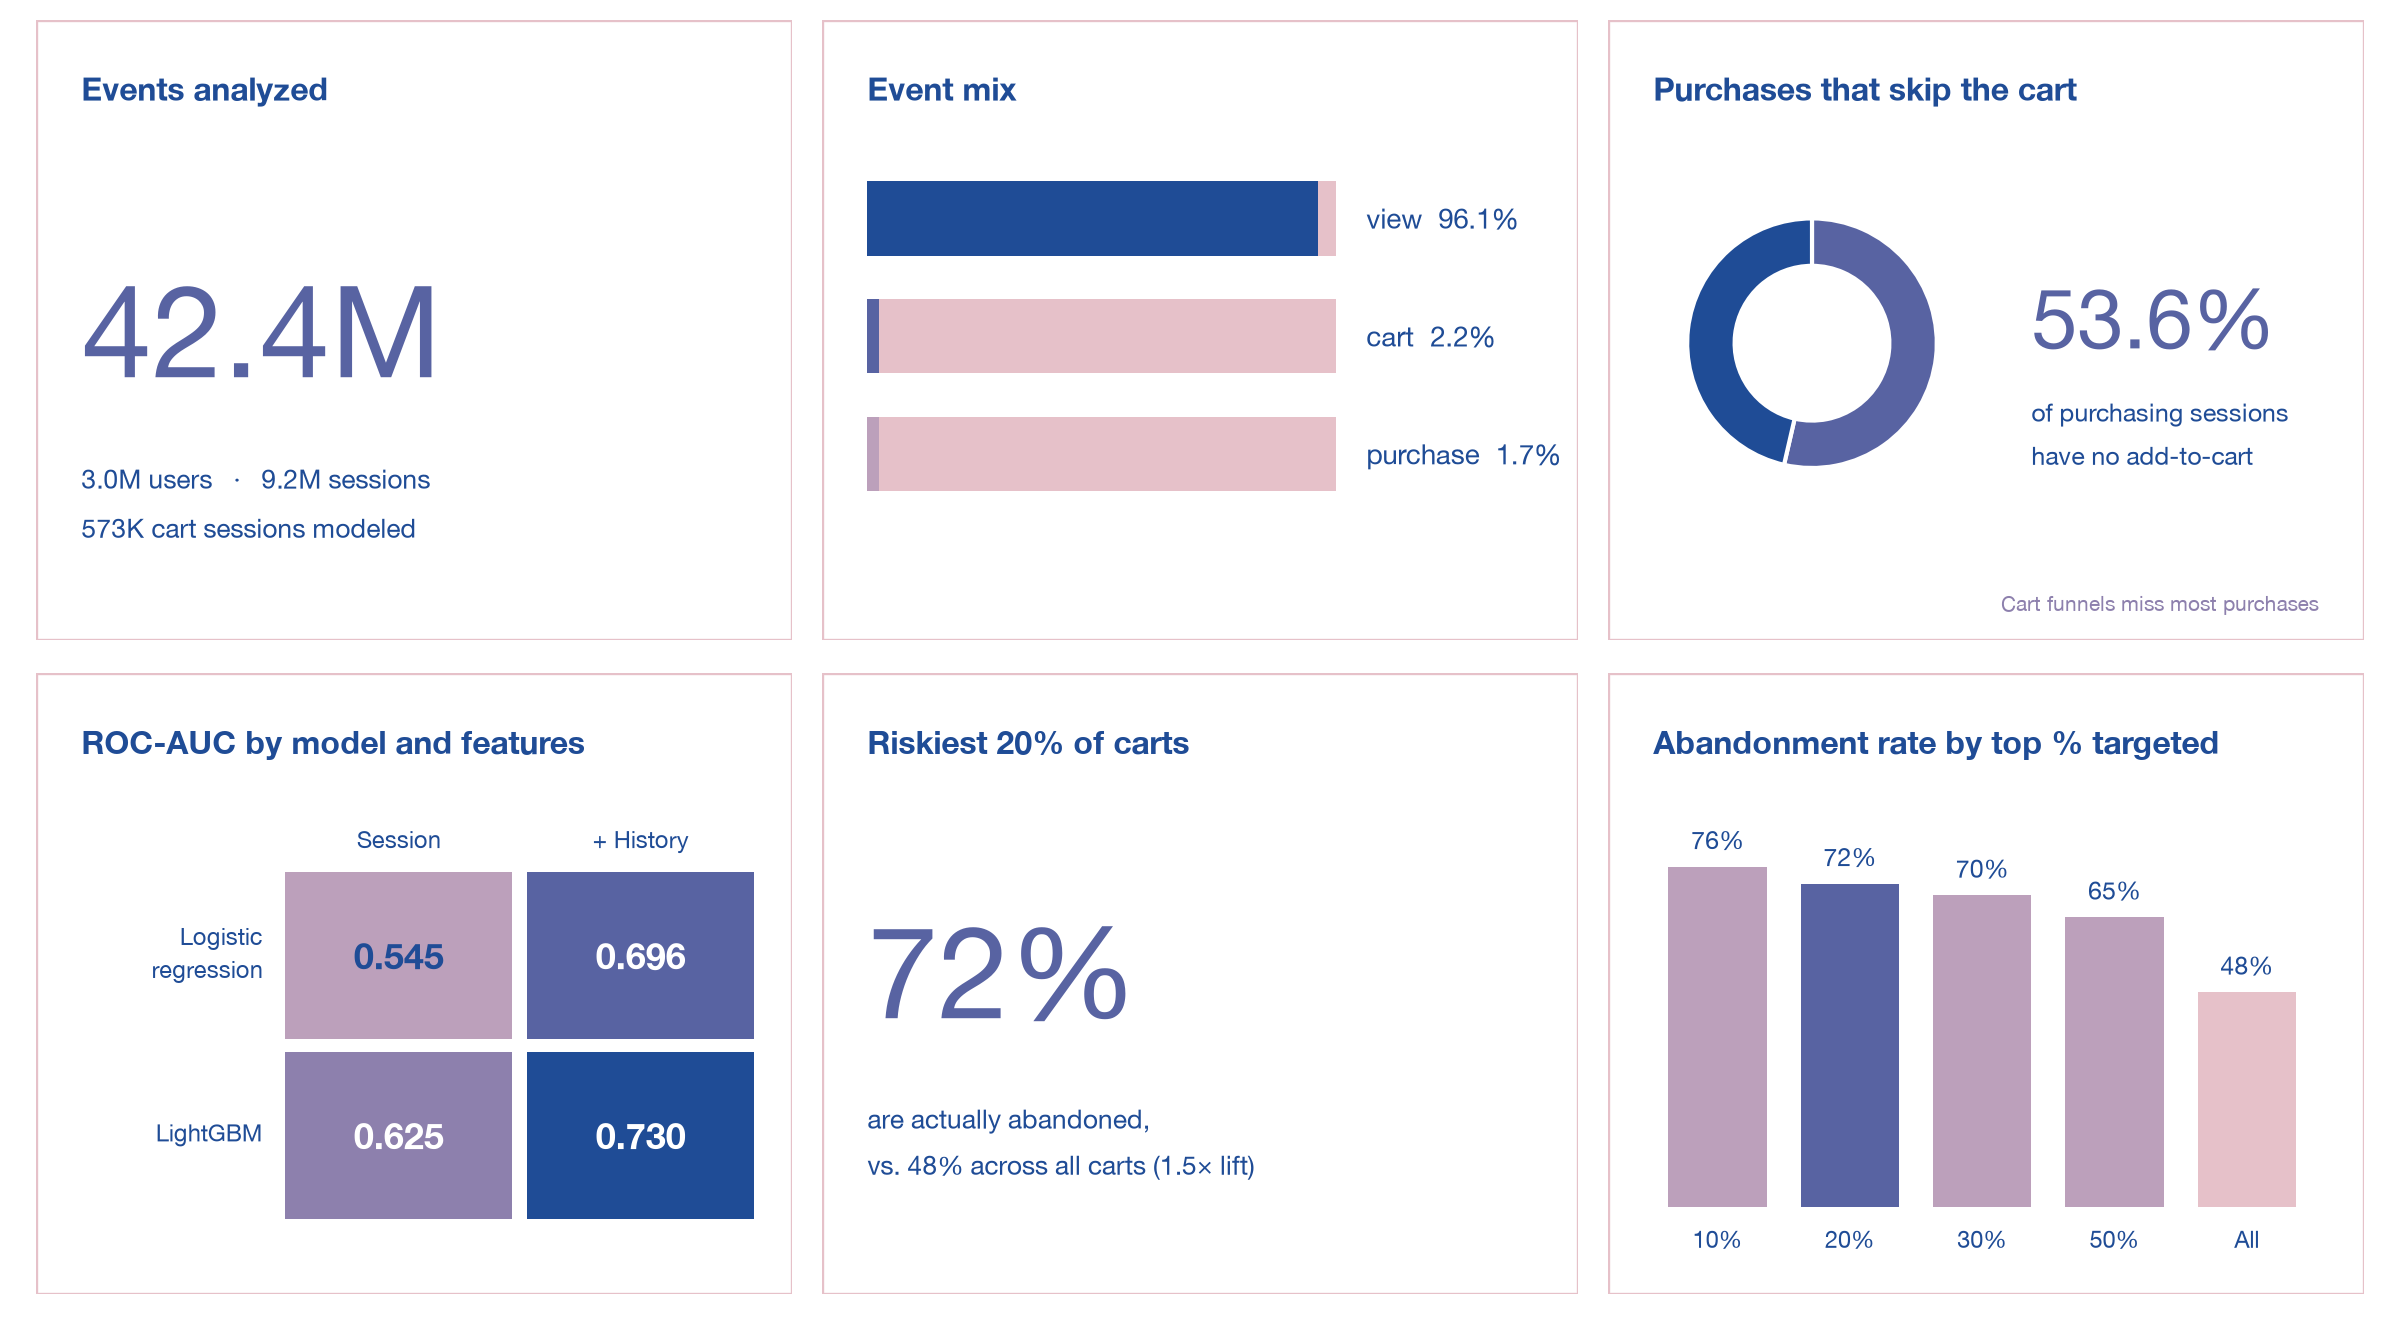
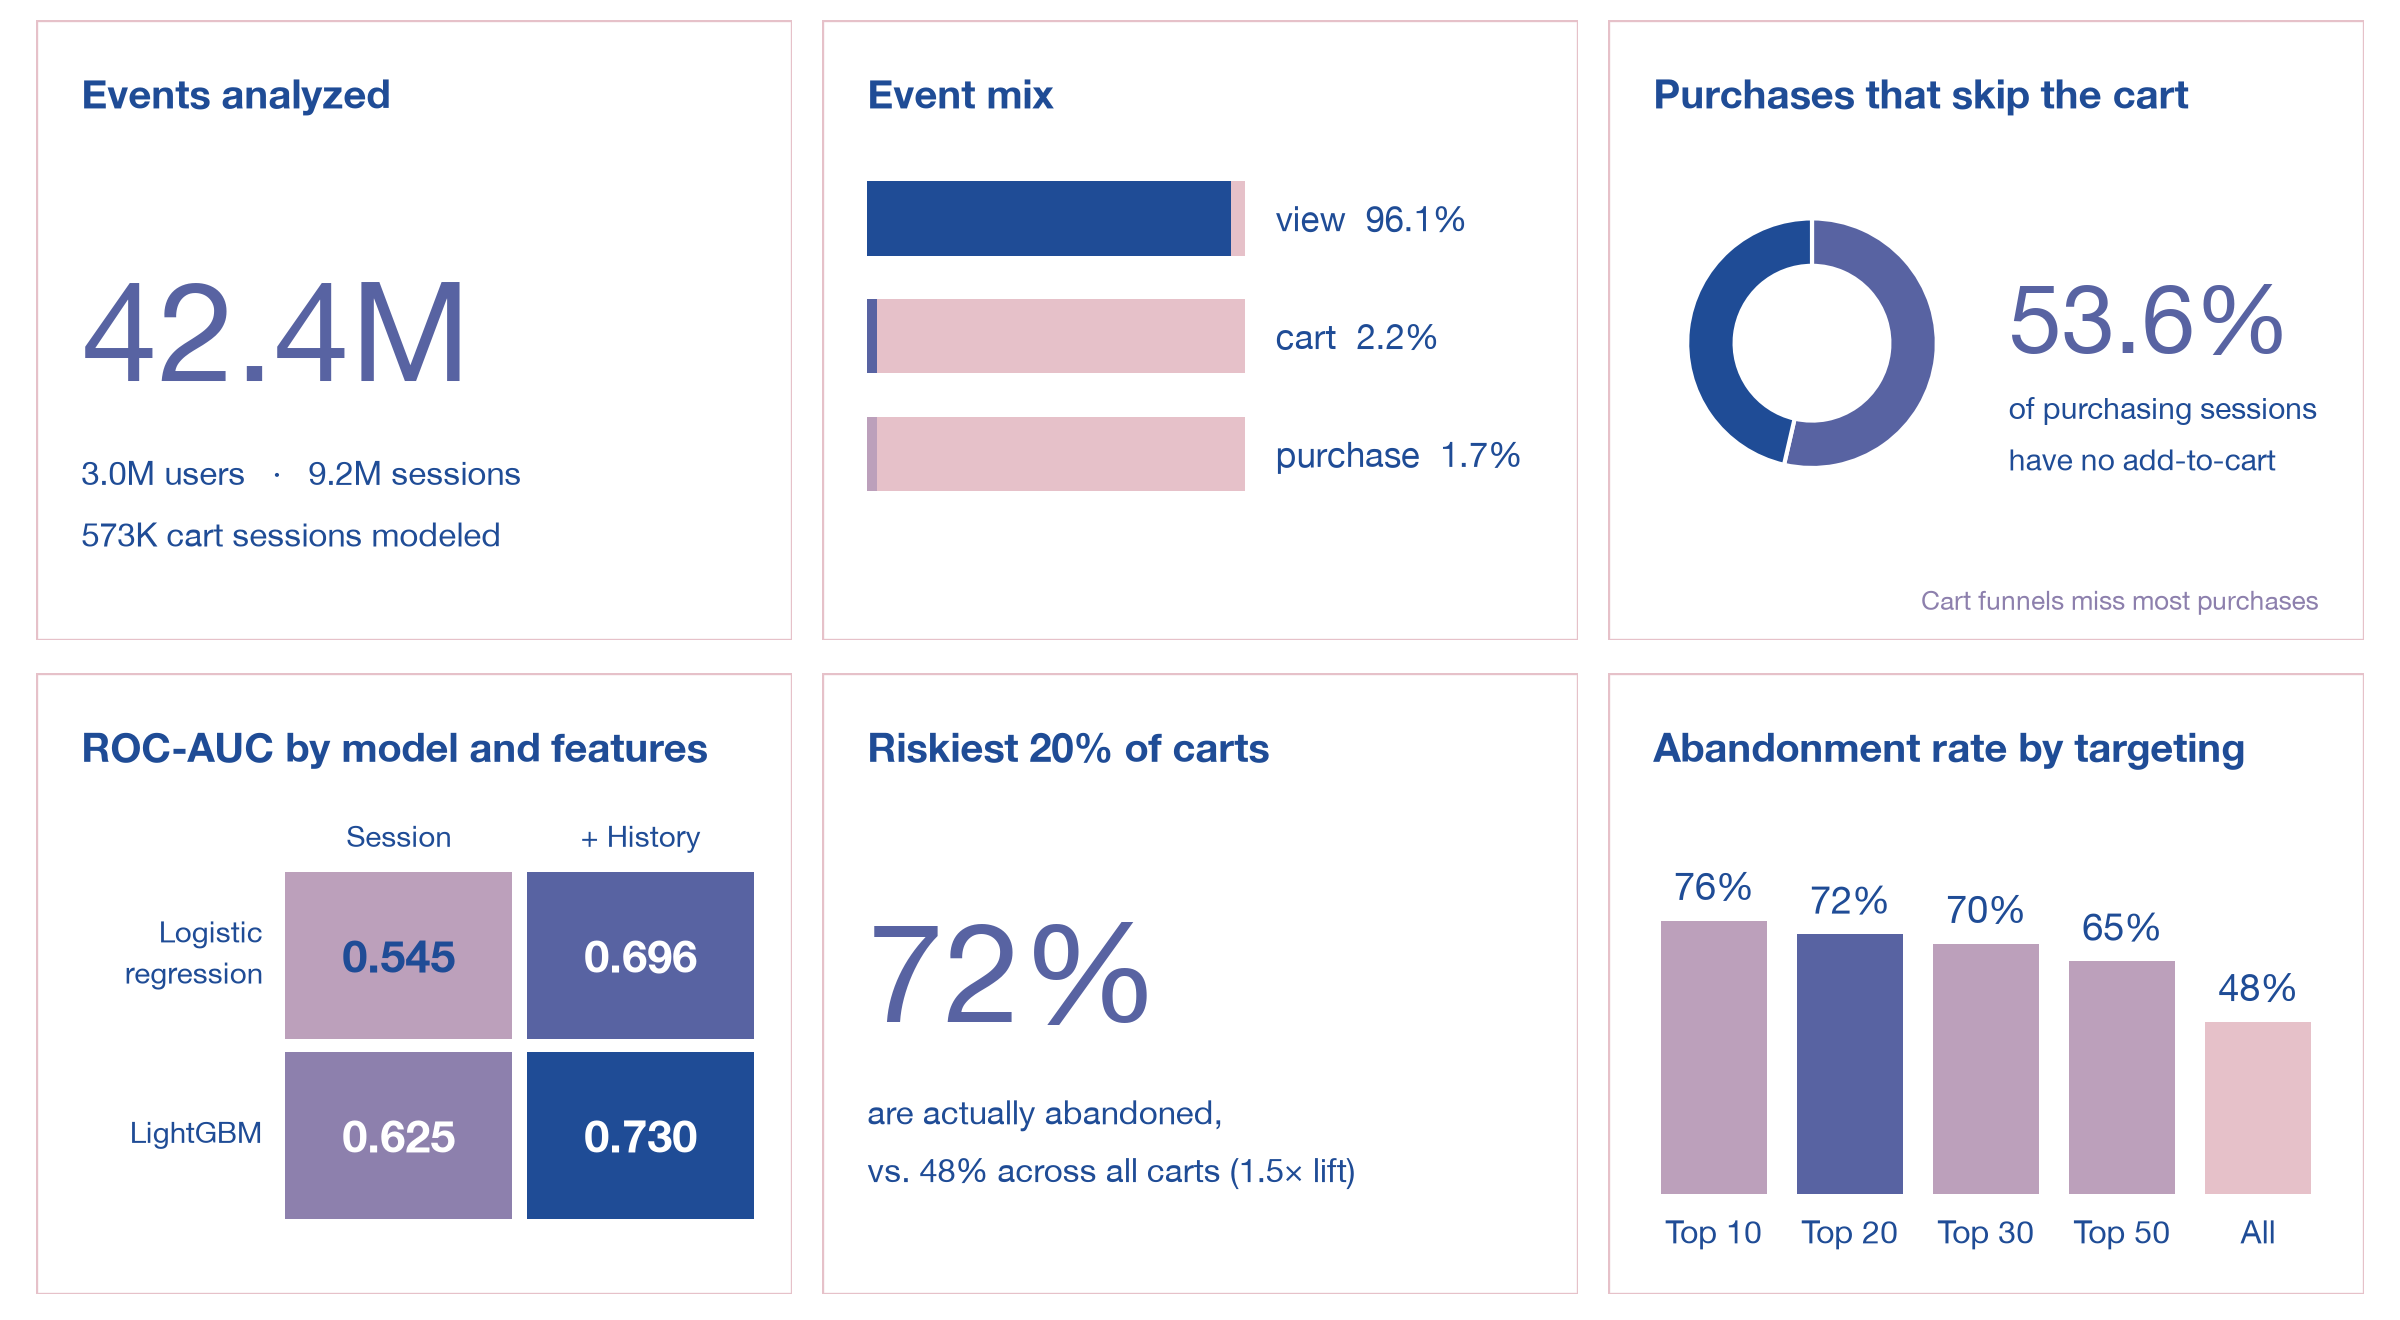
Show lift instead of abandonment rate in targeting tile

diff --git a/make_readme_figures.py b/make_readme_figures.py
@@ -39,9 +39,9 @@ def tile(fig, rect, title, source=None):
     frame.set_ylim(0, 1)
     frame.axis('off')
     frame.add_patch(Rectangle((0, 0), 1, 1, facecolor=BG, edgecolor=TILE_EDGE, lw=1.2))
-    frame.text(0.06, 0.92, title, fontsize=11.5, fontweight='bold', color=BLACK, va='top')
+    frame.text(0.06, 0.92, title, fontsize=14.4, fontweight='bold', color=BLACK, va='top')
     if source:
-        frame.text(0.94, 0.04, source, fontsize=7.5, color=GREY, ha='right', va='bottom')
+        frame.text(0.94, 0.04, source, fontsize=9.4, color=GREY, ha='right', va='bottom')
     return frame
 
 
@@ -54,9 +54,9 @@ ys = [0.515, 0.02]
 
 # 1. Data scale
 ax = tile(fig, (xs[0], ys[0], W, H), 'Events analyzed')
-ax.text(0.06, 0.50, '42.4M', fontsize=46, color=BLUE, va='center')
+ax.text(0.06, 0.50, '42.4M', fontsize=49.7, color=BLUE, va='center')
 ax.text(0.06, 0.22, '3.0M users   ·   9.2M sessions\n573K cart sessions modeled',
-        fontsize=9.5, color=BLACK, va='center', linespacing=1.6)
+        fontsize=11.9, color=BLACK, va='center', linespacing=1.6)
 
 # 2. Event mix
 ax = tile(fig, (xs[1], ys[0], W, H), 'Event mix')
@@ -64,10 +64,10 @@ mix = [('view', 96.1, BLACK), ('cart', 2.2, BLUE), ('purchase', 1.7, BLUE_LIGHT)
 y0 = 0.62
 for i, (name, pct, color) in enumerate(mix):
     yy = y0 - i * 0.19
-    ax.add_patch(Rectangle((0.06, yy), 0.62, 0.12, facecolor=GREY_LIGHT, edgecolor='none'))
-    ax.add_patch(Rectangle((0.06, yy), 0.62 * max(pct, 2.5) / 100, 0.12,
+    ax.add_patch(Rectangle((0.06, yy), 0.50, 0.12, facecolor=GREY_LIGHT, edgecolor='none'))
+    ax.add_patch(Rectangle((0.06, yy), 0.50 * max(pct, 2.5) / 100, 0.12,
                            facecolor=color, edgecolor='none'))
-    ax.text(0.72, yy + 0.06, f'{name}  {pct}%', fontsize=10, color=BLACK, va='center')
+    ax.text(0.60, yy + 0.06, f'{name}  {pct}%', fontsize=12.5, color=BLACK, va='center')
 
 # 3. Purchases that skip the cart (donut)
 ax = tile(fig, (xs[2], ys[0], W, H), 'Purchases that skip the cart')
@@ -77,10 +77,10 @@ donut.set_aspect('equal')
 donut.axis('off')
 donut.pie([skip, 100 - skip], colors=[BLUE, BLACK], startangle=90, counterclock=False,
           wedgeprops=dict(width=0.38, edgecolor=BG, linewidth=1.5))
-ax.text(0.56, 0.52, f'{skip}%', fontsize=30, color=BLUE, va='center')
-ax.text(0.56, 0.33, 'of purchasing sessions\nhave no add-to-cart', fontsize=9,
+ax.text(0.53, 0.52, f'{skip}%', fontsize=34.5, color=BLUE, va='center')
+ax.text(0.53, 0.33, 'of purchasing sessions\nhave no add-to-cart', fontsize=10.8,
         color=BLACK, va='center', linespacing=1.4)
-ax.text(0.94, 0.04, 'Cart funnels miss most purchases', fontsize=7.5, color=GREY,
+ax.text(0.94, 0.04, 'Cart funnels miss most purchases', fontsize=9.4, color=GREY,
         ha='right', va='bottom')
 
 # 4. ROC-AUC heatmap (model x feature set)
@@ -101,52 +101,52 @@ for i in range(2):
         x0 = gx + j * (cw + 0.02)
         y0c = gy + (1 - i) * (ch + 0.02)
         ax.add_patch(Rectangle((x0, y0c), cw, ch, facecolor=color, edgecolor='none'))
-        ax.text(x0 + cw / 2, y0c + ch / 2, f'{v:.3f}', fontsize=13, fontweight='bold',
+        ax.text(x0 + cw / 2, y0c + ch / 2, f'{v:.3f}', fontsize=16.2, fontweight='bold',
                 color='white' if rank >= 1 else BLACK, ha='center', va='center')
-    ax.text(gx - 0.03, gy + (1 - i) * (ch + 0.02) + ch / 2, rows[i], fontsize=8.5,
+    ax.text(gx - 0.03, gy + (1 - i) * (ch + 0.02) + ch / 2, rows[i], fontsize=10.6,
             color=BLACK, ha='right', va='center', linespacing=1.2)
 for j in range(2):
     ax.text(gx + j * (cw + 0.02) + cw / 2, gy + 2 * (ch + 0.02) + 0.01, cols[j],
-            fontsize=8.5, color=BLACK, ha='center', va='bottom')
+            fontsize=10.6, color=BLACK, ha='center', va='bottom')
 
 # 5. Precision of top-20% targeting
 ax = tile(fig, (xs[1], ys[1], W, H), 'Riskiest 20% of carts')
-ax.text(0.06, 0.52, '72%', fontsize=46, color=BLUE, va='center')
+ax.text(0.06, 0.52, '72%', fontsize=49.7, color=BLUE, va='center')
 ax.text(0.06, 0.24, 'are actually abandoned,\nvs. 48% across all carts (1.5× lift)',
-        fontsize=9.5, color=BLACK, va='center', linespacing=1.5)
+        fontsize=11.9, color=BLACK, va='center', linespacing=1.5)
 
 # 6. Abandonment rate by targeting depth
-ax = tile(fig, (xs[2], ys[1], W, H), 'Abandonment rate by top % targeted')
-bars = [('10%', 76.1), ('20%', 72.3), ('30%', 69.7), ('50%', 64.8), ('All', 48.0)]
-bx0, bw, gap, base, top = 0.08, 0.13, 0.045, 0.14, 0.72
+ax = tile(fig, (xs[2], ys[1], W, H), 'Abandonment rate by targeting')
+bars = [('Top 10', 76.1), ('Top 20', 72.3), ('Top 30', 69.7), ('Top 50', 64.8), ('All', 48.0)]
+bx0, bw, gap, base, top = 0.07, 0.14, 0.04, 0.16, 0.58
 for k, (lab, v) in enumerate(bars):
     x0 = bx0 + k * (bw + gap)
     hgt = (v / 100) * top
-    color = MIST if lab == 'All' else (BLUE if lab == '20%' else SKY)
+    color = MIST if lab == 'All' else (BLUE if lab == 'Top 20' else SKY)
     ax.add_patch(Rectangle((x0, base), bw, hgt, facecolor=color, edgecolor='none'))
-    ax.text(x0 + bw / 2, base + hgt + 0.02, f'{v:.0f}%', fontsize=9, color=BLACK,
+    ax.text(x0 + bw / 2, base + hgt + 0.02, f'{v:.0f}%', fontsize=13.8, color=BLACK,
             ha='center', va='bottom')
-    ax.text(x0 + bw / 2, base - 0.03, lab, fontsize=8.5, color=BLACK, ha='center', va='top')
+    ax.text(x0 + bw / 2, base - 0.03, lab, fontsize=11.5, color=BLACK, ha='center', va='top')
 
 fig.savefig('figures/key_findings.png', dpi=200, facecolor=BG)
 plt.close(fig)
 
 
 # ---------------------------------------------------------------- results heatmap
-models = ['Logistic regression', 'LightGBM', 'LightGBM (no category)',
+models = ['Logistic regression', 'LightGBM (no category)', 'LightGBM',
           'Logistic regression + history', 'LightGBM + history']
 metrics = ['ROC-AUC', 'PR-AUC', 'Accuracy']
 values = [
     [0.545, 0.550, 0.538],
-    [0.625, 0.634, 0.588],
     [0.617, 0.629, 0.580],
+    [0.625, 0.634, 0.588],
     [0.696, 0.725, 0.640],
     [0.730, 0.751, 0.667],
 ]
 labels = [
     ['0.545', '0.550', '53.8%'],
-    ['0.625', '0.634', '58.8%'],
     ['0.617', '0.629', '58.0%'],
+    ['0.625', '0.634', '58.8%'],
     ['0.696', '0.725', '64.0%'],
     ['0.730', '0.751', '66.7%'],
 ]
@@ -163,15 +163,15 @@ rgb = np.array([[[int(steps[r][k:k + 2], 16) / 255 for k in (1, 3, 5)]
 
 fig, ax = plt.subplots(figsize=(7.2, 3.6), facecolor=BG)
 ax.imshow(rgb, aspect='auto', interpolation='nearest')
-ax.set_xticks(range(len(metrics)), metrics, fontsize=10)
-ax.set_yticks(range(len(models)), models, fontsize=10)
+ax.set_xticks(range(len(metrics)), metrics, fontsize=12)
+ax.set_yticks(range(len(models)), models, fontsize=12)
 ax.xaxis.tick_top()
 ax.tick_params(length=0, labelcolor=BLACK)
 for s_ in ax.spines.values():
     s_.set_visible(False)
 for i in range(len(models)):
     for j in range(len(metrics)):
-        ax.text(j, i, labels[i][j], ha='center', va='center', fontsize=11,
+        ax.text(j, i, labels[i][j], ha='center', va='center', fontsize=13,
                 fontweight='bold' if i == len(models) - 1 else 'normal',
                 color='white' if ranks[i, j] >= 2 else BLACK)
 ax.set_xticks([x - 0.5 for x in range(1, len(metrics))], minor=True)
